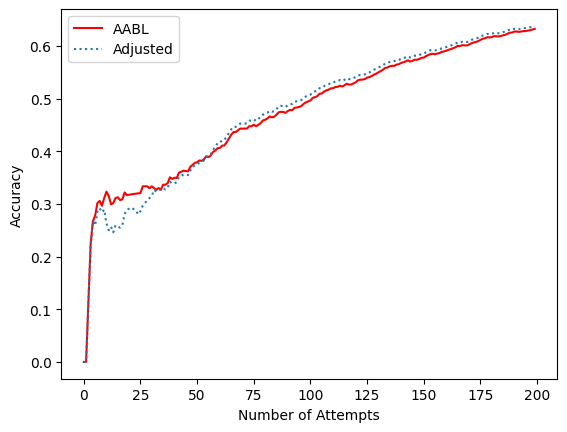
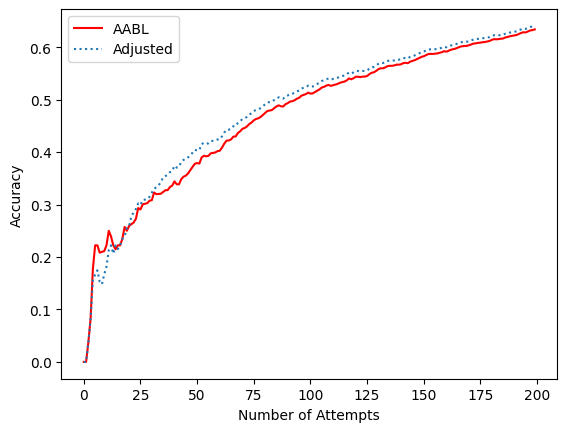
backup

diff --git a/Accelerated_ABL/BAF2_pseudocode.py b/Accelerated_ABL/BAF2_pseudocode.py
@@ -1,0 +1,90 @@
+import itertools
+import numpy as np
+import operator
+import ast
+
+
+class BAF2:
+    gen = [0]
+
+    def __init__(self, scenario):
+        self.combination_feature_weights = {}
+        self.recovery_behaviors = []
+        self.num_features_to_consider = 1
+
+        self.num_of_columns = len(scenario)
+        self.important_columns = np.arange(self.num_of_columns)
+
+    def compute_combination_feature_weights(self, best_recovery_behavior_idx, all_scenarios_so_far,
+                                            corresponding_recoveries_for_scenarios_so_far):
+        should_change = False
+        if len(all_scenarios_so_far) > 0:
+            if(len(self.important_columns) > 0):
+                for idx in self.important_columns:
+                    numbers = [idx + i for i in range(self.num_features_to_consider)]
+
+                    selected_columns_with_recovery = np.zeros((len(all_scenarios_so_far), len(numbers) + 1), dtype='int')
+                    selected_columns_with_recovery[:, np.arange(len(numbers))] = np.array(all_scenarios_so_far)[:, numbers]
+                    selected_columns_with_recovery[:, -1] = [self.recovery_behaviors.index(recovery_behavior) for recovery_behavior in corresponding_recoveries_for_scenarios_so_far]
+                    unique_selected_columns_with_recovery = np.unique(selected_columns_with_recovery, axis=0)
+                    unique_selected_columns_without_recovery = np.unique(selected_columns_with_recovery[:, :-1], axis=0)
+
+                    # Count the amount of times this location appears in combination with a different recovery
+                    # essentially determening the relevancy of this location:
+                    # if the location is relevant then the recovery will always be the same and thus will negative = 0
+                    # otherwise negative will be positive
+                    negative = len(unique_selected_columns_with_recovery) - len(unique_selected_columns_without_recovery)
+
+                    # only keep track of relevant locations
+                    if negative <= 0:
+                        should_change = False
+                        self.combination_feature_weights[str(numbers)] = 1
+                    else:
+                        mask = self.important_columns != idx
+                        self.important_columns = self.important_columns[mask]
+                        self.combination_feature_weights.pop(str(numbers), None)
+            else:
+                should_change = True
+                self.important_columns = np.arange(self.num_of_columns)
+        return should_change
+
+    def update_baf(self, best_recovery_behavior, all_scenarios_so_far,
+                   corresponding_recoveries_for_scenarios_so_far):
+        self.current_best_recovery_behavior = best_recovery_behavior
+        recovery_behavior_index = self.add_recovery_behavior()
+        if self.compute_combination_feature_weights(recovery_behavior_index, all_scenarios_so_far,
+                                                    corresponding_recoveries_for_scenarios_so_far):
+            self.num_features_to_consider += 1
+
+    def add_recovery_behavior(self):
+        if self.current_best_recovery_behavior not in self.recovery_behaviors:
+            self.recovery_behaviors.append(self.current_best_recovery_behavior)
+
+    def most_common(self,lst):
+        return max(set(lst), key=lst.count)
+
+    def guess(self, current_scenario, previous_scenarios, previous_best_recoveries):
+        if self.combination_feature_weights == {}:
+            return ''
+
+        for key, value in self.combination_feature_weights.items():
+            relevant_column = ast.literal_eval(key)
+            break
+
+        current_object = list(np.array(current_scenario)[relevant_column])
+        recovery_behavior_weights = {}
+        for recovery_behavior in self.recovery_behaviors:
+            recovery_behavior_weights[recovery_behavior] = 0
+        for recovery_behavior in self.recovery_behaviors:
+            for idx, prev_scenario in enumerate(previous_scenarios):
+                if (recovery_behavior == previous_best_recoveries[idx]) and (
+                        current_object == list(np.array(prev_scenario)[relevant_column])):
+                    recovery_behavior_weights[recovery_behavior] += 1
+
+        max_val = max([v for k,v in recovery_behavior_weights.items()])
+        max_behaviors = [k for k,v in recovery_behavior_weights.items() if v==max_val]
+
+        if len(max_behaviors) == 1:
+            return max_behaviors[0]
+        else:
+            return self.most_common(previous_best_recoveries)

diff --git a/Accelerated_ABL/adjusted_comparison.py b/Accelerated_ABL/adjusted_comparison.py
@@ -7,7 +7,7 @@ Created on Thursday Oct 13 2020
 
 import scenarios_original as scenarios
 import BAF2_original as BAF2
-import BAF2_adjusted as myABL
+import BAF2_pseudocode as myABL
 import tabular
 from sklearn import tree
 import numpy as np
@@ -31,7 +31,7 @@ if __name__ == "__main__":
     for itr in range(number_of_iterations):
         gen = scenarios.ScenarioGenerator(scenario_type)
         baf = BAF2.BAF2(gen.scenario, gen)
-        myBAF = myABL.BAF2(gen.scenario, gen)
+        myBAF = myABL.BAF2(gen.scenario)
         locations = list(range(0, gen.number_of_locations))
         colors = list(gen.colors.values())
         colors.append("Noc")
@@ -43,6 +43,9 @@ if __name__ == "__main__":
         saved_scenarios_in_memory_for_other_approaches = []
         saved_best_recovery_behaviors_in_memory_for_other_approaches = []
         saved_best_recovery_behaviors_in_memory = []
+
+        all_scenarios = []
+        all_recoveries = []
         TP = 0
         TP_Orig = 0
         TP_my = 0
@@ -82,7 +85,9 @@ if __name__ == "__main__":
 
 
             start = timer()
-            guess = myBAF.guess(saved_scenarios_in_memory_for_other_approaches, saved_best_recovery_behaviors_in_memory)
+            all_scenarios.append(gen.scenario_to_numerical())
+            all_recoveries.append(gen.best_recovery_behavior)
+            guess = myBAF.guess(gen.scenario_to_numerical(), saved_scenarios_in_memory_for_other_approaches, saved_best_recovery_behaviors_in_memory)
             myBAF.update_baf(gen.best_recovery_behavior, saved_scenarios_in_memory_for_other_approaches, saved_best_recovery_behaviors_in_memory)
             if gen.best_recovery_behavior == guess:
                 TP_my += 1
